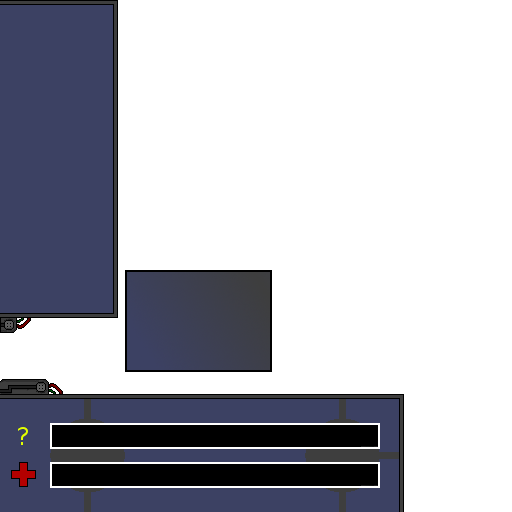
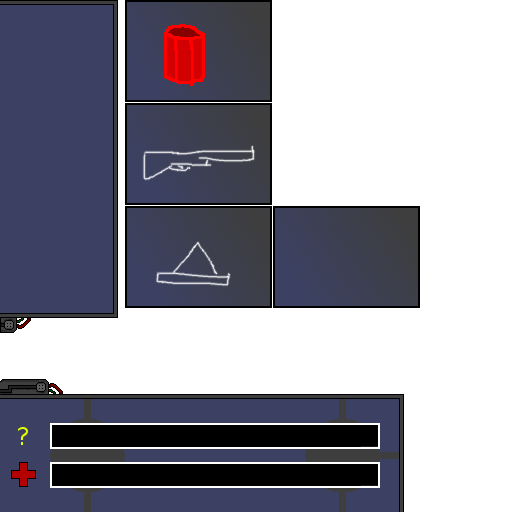
Inventarbilder

Changed region(s): [[0.2188, 0.0, 0.8438, 0.75]]

diff --git a/src/de/_13ducks/spacebatz/client/graphics/controls/Inventory.java b/src/de/_13ducks/spacebatz/client/graphics/controls/Inventory.java
@@ -66,7 +66,7 @@ public class Inventory implements Control {
         hud1.bind();
         glColor3f(1.0f, 1.0f, 1.0f);
 
-        // Bilder für Inventar-Slots
+        // Bild für die Inventar-Slots
         for (int i = 0; i <= 9; i++) {
             for (int j = 0; j <= 2; j++) {
                 float xa = x1 + i * 0.08f * camera.getTilesX();
@@ -75,32 +75,46 @@ public class Inventory implements Control {
                 float yb = y1 + (j + 1) * 0.1f * camera.getTilesY();
 
                 glBegin(GL_QUADS); // QUAD-Zeichenmodus aktivieren
-                glTexCoord2f(122.0f / 512, 374.0f / 512);
+                glTexCoord2f(273.0f / 512, 307.0f / 512);
                 glVertex3f(xa, ya, 0.0f);
-                glTexCoord2f(274.0f / 512, 374.0f / 512);
+                glTexCoord2f(419.0f / 512, 307.0f / 512);
                 glVertex3f(xb, ya, 0.0f);
-                glTexCoord2f(274.0f / 512, 268.0f / 512);
+                glTexCoord2f(419.0f / 512, 206.0f / 512);
                 glVertex3f(xb, yb, 0.0f);
-                glTexCoord2f(122.0f / 512, 268.0f / 512);
+                glTexCoord2f(273.0f / 512, 206.0f / 512);
                 glVertex3f(xa, yb, 0.0f);
                 glEnd(); // Zeichnen des QUADs fertig } }
             }
         }
-
+        
+        float x01 = 0.815125f * camera.getTilesX();
+        float x02 = 0.895125f * camera.getTilesX();
         float ya = 0.53f * camera.getTilesY();
         float yb = ya + 0.1f * camera.getTilesY();
+        
+        // Bild für Mülleimer
+        glBegin(GL_QUADS); // QUAD-Zeichenmodus aktivieren
+        glTexCoord2f(125.0f / 512, 101.0f / 512);
+        glVertex3f(x01, ya, 0.0f);
+        glTexCoord2f(271.0f / 512, 101.0f / 512);
+        glVertex3f(x02, ya, 0.0f);
+        glTexCoord2f(271.0f / 512, 0.0f / 512);
+        glVertex3f(x02, yb, 0.0f);
+        glTexCoord2f(125.0f / 512, 0.0f / 512);
+        glVertex3f(x01, yb, 0.0f);
+        glEnd(); // Zeichnen des QUADs fertig } }
 
         // Hut-Slot:
         float xa = x1;
         float xb = x1 + 0.08f * camera.getTilesX();
         glBegin(GL_QUADS); // QUAD-Zeichenmodus aktivieren
-        glTexCoord2f(122.0f / 512, 374.0f / 512);
+        glTexCoord2f(125.0f / 512, 307.0f / 512);
         glVertex3f(xa, ya, 0.0f);
-        glTexCoord2f(274.0f / 512, 374.0f / 512);
+        glTexCoord2f(271.0f / 512, 307.0f / 512);
         glVertex3f(xb, ya, 0.0f);
-        glTexCoord2f(274.0f / 512, 268.0f / 512);
+        glTexCoord2f(271.0f / 512, 206.0f / 512);
         glVertex3f(xb, yb, 0.0f);
-        glTexCoord2f(122.0f / 512, 268.0f / 512);
+        glTexCoord2f(125.0f / 512, 206.0f / 512);
         glVertex3f(xa, yb, 0.0f);
         glEnd(); // Zeichnen des QUADs fertig } }
 
@@ -109,13 +123,13 @@ public class Inventory implements Control {
             float xw1 = x1 + (0.1f * i + 0.15f) * camera.getTilesX();
             float xw2 = xw1 + 0.08f * camera.getTilesX();
             glBegin(GL_QUADS); // QUAD-Zeichenmodus aktivieren
-            glTexCoord2f(122.0f / 512, 374.0f / 512);
+            glTexCoord2f(125.0f / 512, 204.0f / 512);
             glVertex3f(xw1, ya, 0.0f);
-            glTexCoord2f(274.0f / 512, 374.0f / 512);
+            glTexCoord2f(271.0f / 512, 204.0f / 512);
             glVertex3f(xw2, ya, 0.0f);
-            glTexCoord2f(274.0f / 512, 268.0f / 512);
+            glTexCoord2f(271.0f / 512, 103.0f / 512);
             glVertex3f(xw2, yb, 0.0f);
-            glTexCoord2f(122.0f / 512, 268.0f / 512);
+            glTexCoord2f(125.0f / 512, 103.0f / 512);
             glVertex3f(xw1, yb, 0.0f);
             glEnd(); // Zeichnen des QUADs fertig } }
         }
@@ -374,6 +388,19 @@ public class Inventory implements Control {
                                 if (GameClient.getEquippedItems().getEquipslots()[1][weaponslot] != null) {
                                     CTS_REQUEST_ITEM_DEQUIP.sendDequipItem(1, weaponslot); // 1 = Waffen-Slot
                                 }
+                            }
+                        }
+                    }
+                    
+                    //Müll-Slot
+                    if (x > 0.815125f && x < 0.895125f) {
+                        if (y > 0.53 && y < 0.63) {
+                            if (selecteditemslot != -1) {
+                                Item selecteditem = GameClient.getItems()[selecteditemslot];
+                                //löschen
+                                
+                                System.out.println("delete");
+                                GameClient.getItems()[selecteditemslot] = null;
                             }
                         }
                     }

diff --git a/src/de/_13ducks/spacebatz/client/graphics/controls/HudControl.java b/src/de/_13ducks/spacebatz/client/graphics/controls/HudControl.java
@@ -85,7 +85,6 @@ public class HudControl implements Control {
         glRectf(0.0295f * camera.getTilesX(), 0.028f * camera.getTilesY(), (0.0295f + 0.1655f * ((float) hp / maxhp)) * camera.getTilesX(), 0.04f * camera.getTilesY());
         glEnable(GL_TEXTURE_2D);
 
-
         // angelegte Waffen in Hud zeichnen
         for (int j = 0; j < GameClient.getEquippedItems().getEquipslots()[1].length; j++) {
 
